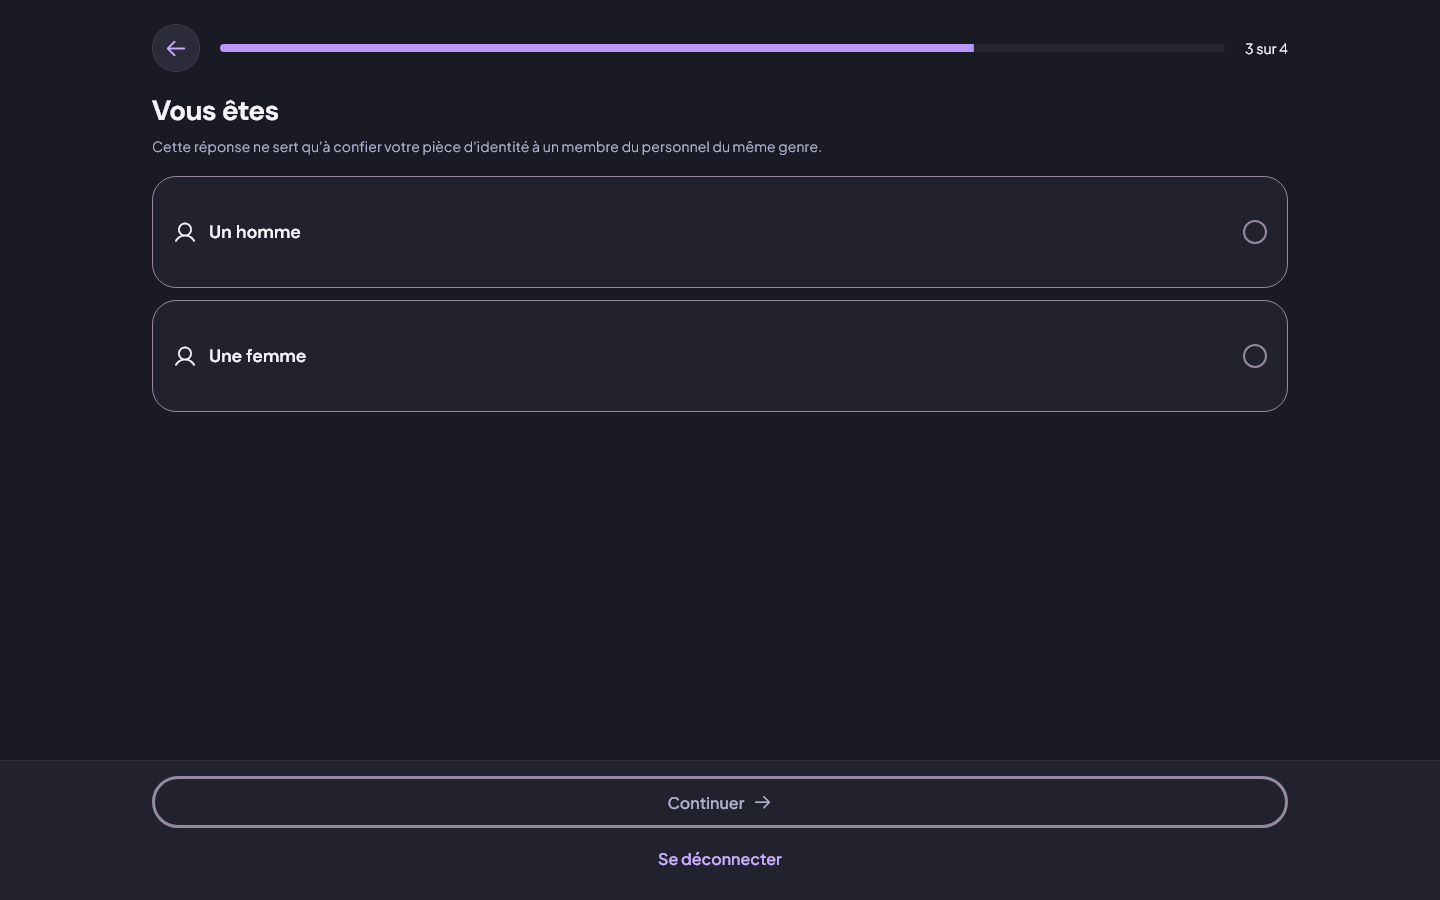
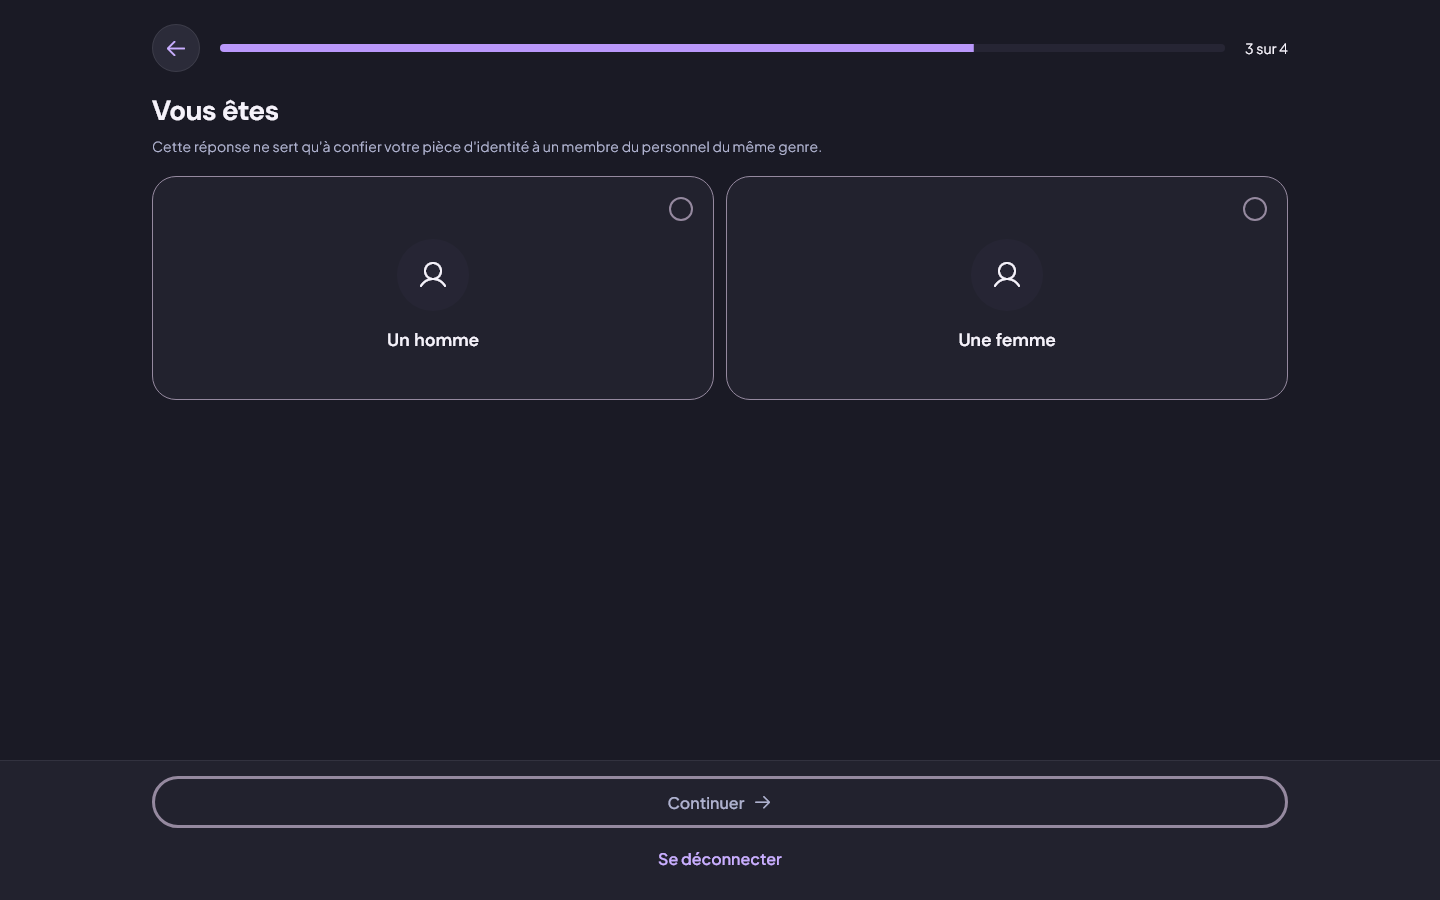
recette(A): captures LA-2 regenerees, genre cote a cote (A-5.2)

diff --git a/demandes/A.md b/demandes/A.md
@@ -52,3 +52,7 @@ Signature : Poste B, LA-F2.
 - **A-5.3 fait** : `OptionChoix.cle` (Key?) posee sur la carte.
 - **A-5.2** (genre cote a cote) : non traite, reste ouvert.
 - Usages lots B/D de `PageEtape`/`ChoiceCardGroup` inchanges (parametres optionnels). `analyze --fatal-infos` : 0 ; tests accessibilite/router/capacites/widgets/features verts sous verrou.
+
+## A-5.2 (LA-C2, 25/09) : icone femme
+La maquette 'onboarding Mble d' montre une silhouette feminine pour Femme. Aucune icone de ce type dans lib/core/icons/app_icons.dart : les deux cartes utilisent AppIcons.profil. Ressource a fournir (glyphe Phosphor + entree AppIcons) si le directeur la veut.
+
